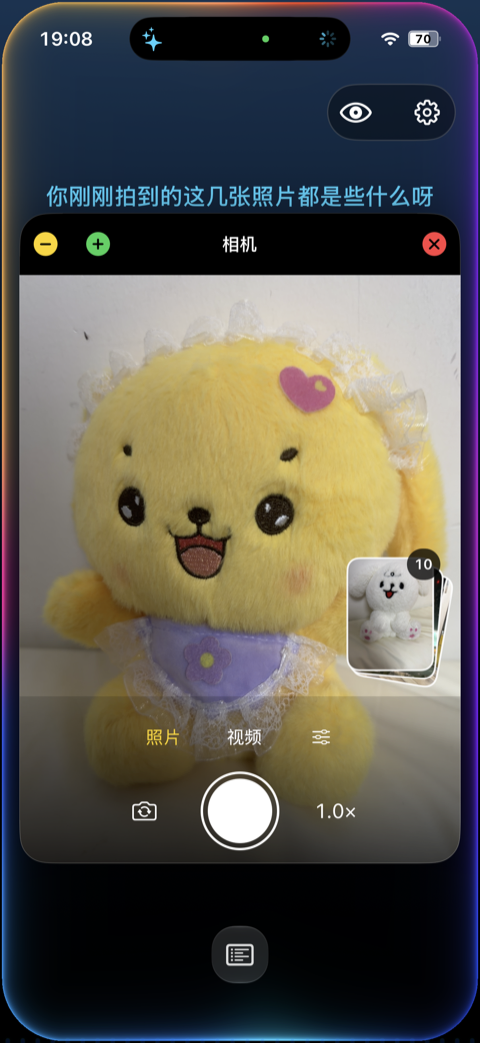
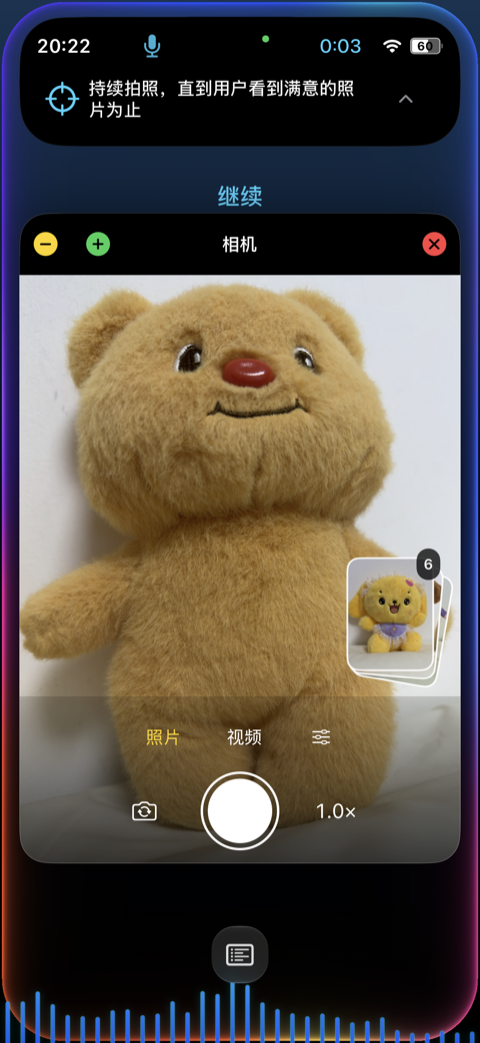
docs: refresh photography, Writer and multiwindow examples

diff --git a/README.md b/README.md
@@ -105,10 +105,10 @@ For offline development and opt-in Mac/model tests, existing `scripts/download-*
 | Feature | What you can do today | Example |
 | --- | --- | --- |
 | **Everyday interaction** | Have multi-turn voice conversations with the Assistant, with live captions, spoken replies and expressive eyes and gaze. | [<img src="docs/imgs/everyday-voice-interaction.png" width="160" alt="Voice conversation with captions, expressive eyes and pose overlays">](docs/imgs/everyday-voice-interaction.png) |
-| **Interactive UI** | Interact with generated pages, charts and small tools, manage content windows, and follow task progress in the in-app Island. | [<img src="docs/imgs/interactive-multiwindow.png" width="160" alt="Multiple browser and Writer windows on the home screen">](docs/imgs/interactive-multiwindow.png) |
+| **Interactive UI** | Interact with generated pages, charts and small tools, manage content windows, and follow task progress in the in-app Island. | [<img src="docs/imgs/interactive-multiwindow.png" width="160" alt="Multiple browser and Writer windows on the home screen">](docs/imgs/interactive-multiwindow.png) [<img src="docs/imgs/interactive-minimized-windows.png" width="160" alt="Browser and Writer windows minimized after a voice request">](docs/imgs/interactive-minimized-windows.png) |
 | **NexArm robotic-arm control** | Control a **NexArm** by voice, move individual joints, perform gestures such as nodding and waving, and aim using visual pose tracking. | [<img src="docs/imgs/nexarm-control-demo.gif" width="160" alt="Animated demonstration of a phone mounted on a NexArm robotic arm">](docs/imgs/nexarm-control-demo.gif) |
-| **Intelligent photography and album** | Take photos and videos by voice or on-screen controls, adjust countdown, flash and zoom, and use NexArm for pose-driven aiming. Browse, replay, export and delete saved photos and videos in the app album. | [<img src="docs/imgs/photography-camera.png" width="160" alt="Camera window with capture controls and recent-photo thumbnails">](docs/imgs/photography-camera.png) |
-| **Writer text and visual authoring** | Create articles, illustrated layouts, diagrams and interactive content. Preview results as they develop, refine them through conversation, and reopen or export saved work. | [<img src="docs/imgs/writer-illustrated-article.png" width="160" alt="Writer article explaining the banker algorithm with tables and diagrams">](docs/imgs/writer-illustrated-article.png) |
+| **Intelligent photography and album** | Take photos and videos by voice or on-screen controls, adjust countdown, flash and zoom, and use NexArm for pose-driven aiming. Browse, replay, export and delete saved photos and videos in the app album. | [<img src="docs/imgs/photography-camera.png" width="160" alt="Ongoing photography task with camera controls and recent-photo thumbnails">](docs/imgs/photography-camera.png) [<img src="docs/imgs/photography-album.png" width="160" alt="App album displaying a grid of saved photos">](docs/imgs/photography-album.png) |
+| **Writer text and visual authoring** | Create articles, illustrated layouts, diagrams and interactive content. Preview results as they develop, refine them through conversation, and reopen or export saved work. | [<img src="docs/imgs/writer-illustrated-article.png" width="160" alt="Writer article explaining the banker algorithm with tables and diagrams">](docs/imgs/writer-illustrated-article.png) [<img src="docs/imgs/writer-visual-flowchart.png" width="160" alt="Writer-created visual processing flowchart reopened from saved work">](docs/imgs/writer-visual-flowchart.png) |
 | **Web browsing** | Ask the Assistant to open and read web pages, inspect page content and navigate in an in-app browser. | [<img src="docs/imgs/web-browsing.png" width="160" alt="Web search results shown in the in-app browser">](docs/imgs/web-browsing.png) |
 
 ## Planned and Ongoing Work

diff --git a/docs/imgs/README.md b/docs/imgs/README.md
@@ -9,9 +9,12 @@ This directory contains the conceptual diagrams and feature examples used by the
 | [multi-agent-communication.svg](multi-agent-communication.svg) | Assistant and Writer delegation through Gateway. |
 | [everyday-voice-interaction.png](everyday-voice-interaction.png) | Voice interaction, captions, expressive eyes and pose overlays. |
 | [interactive-multiwindow.png](interactive-multiwindow.png) | Browser and Writer windows displayed together. |
+| [interactive-minimized-windows.png](interactive-minimized-windows.png) | Browser and Writer windows minimized through voice interaction. |
 | [nexarm-control-demo.gif](nexarm-control-demo.gif) | Animated NexArm demonstration. |
-| [photography-camera.png](photography-camera.png) | Camera controls and recent-photo thumbnails. |
+| [photography-camera.png](photography-camera.png) | An ongoing photography task with camera controls and recent-photo thumbnails. |
+| [photography-album.png](photography-album.png) | Saved photos displayed in the app album grid. |
 | [writer-illustrated-article.png](writer-illustrated-article.png) | An illustrated article created by Writer. |
+| [writer-visual-flowchart.png](writer-visual-flowchart.png) | A Writer-created visual processing flowchart reopened from saved work. |
 | [web-browsing.png](web-browsing.png) | Search results in the in-app browser. |
 
 PNG screenshots are resized proportionally to 480 pixels wide without cropping. The GIF retains its original animation at 480 pixels wide; SVG diagrams remain scalable. The feature table displays clickable 160-pixel-wide previews. Screenshots preserve their captured interface language and visible state; they are examples, not acceptance-test results.
